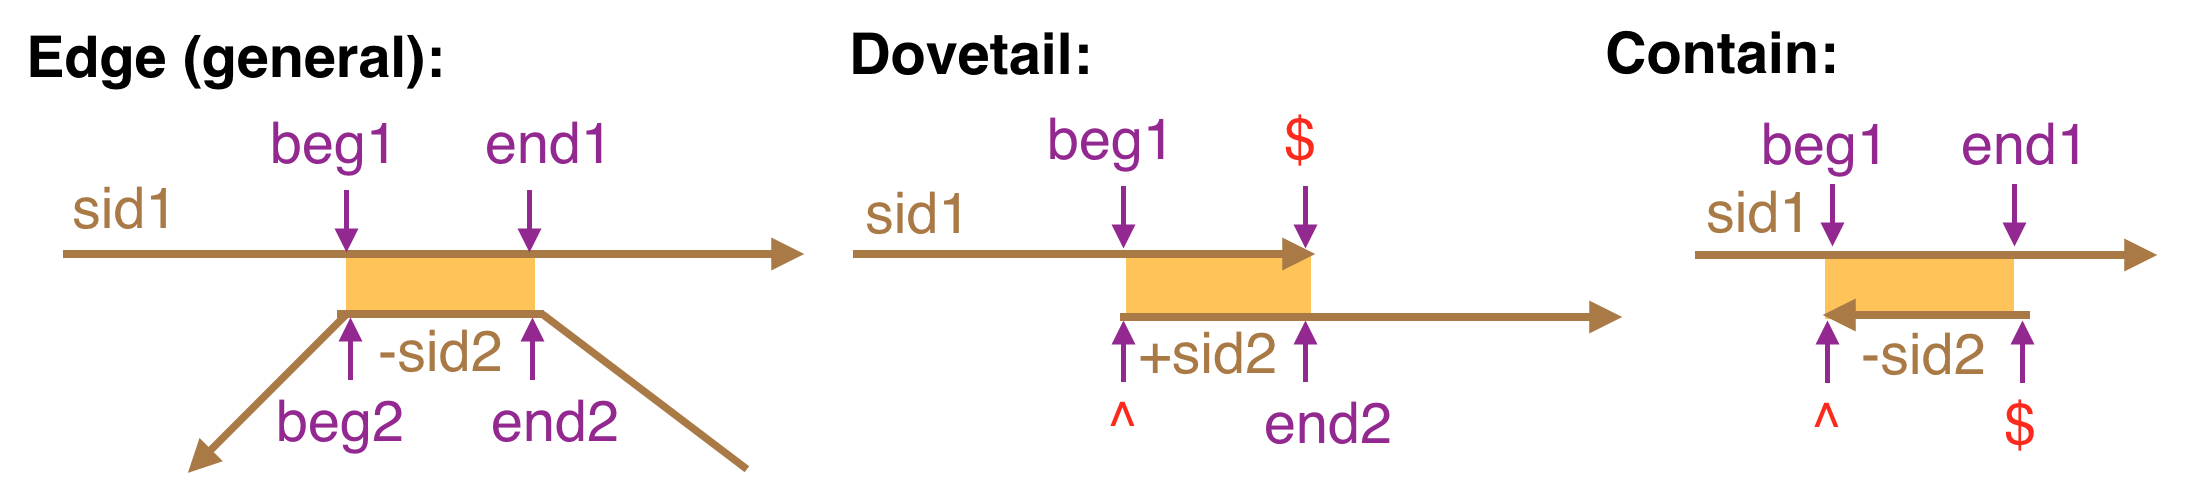
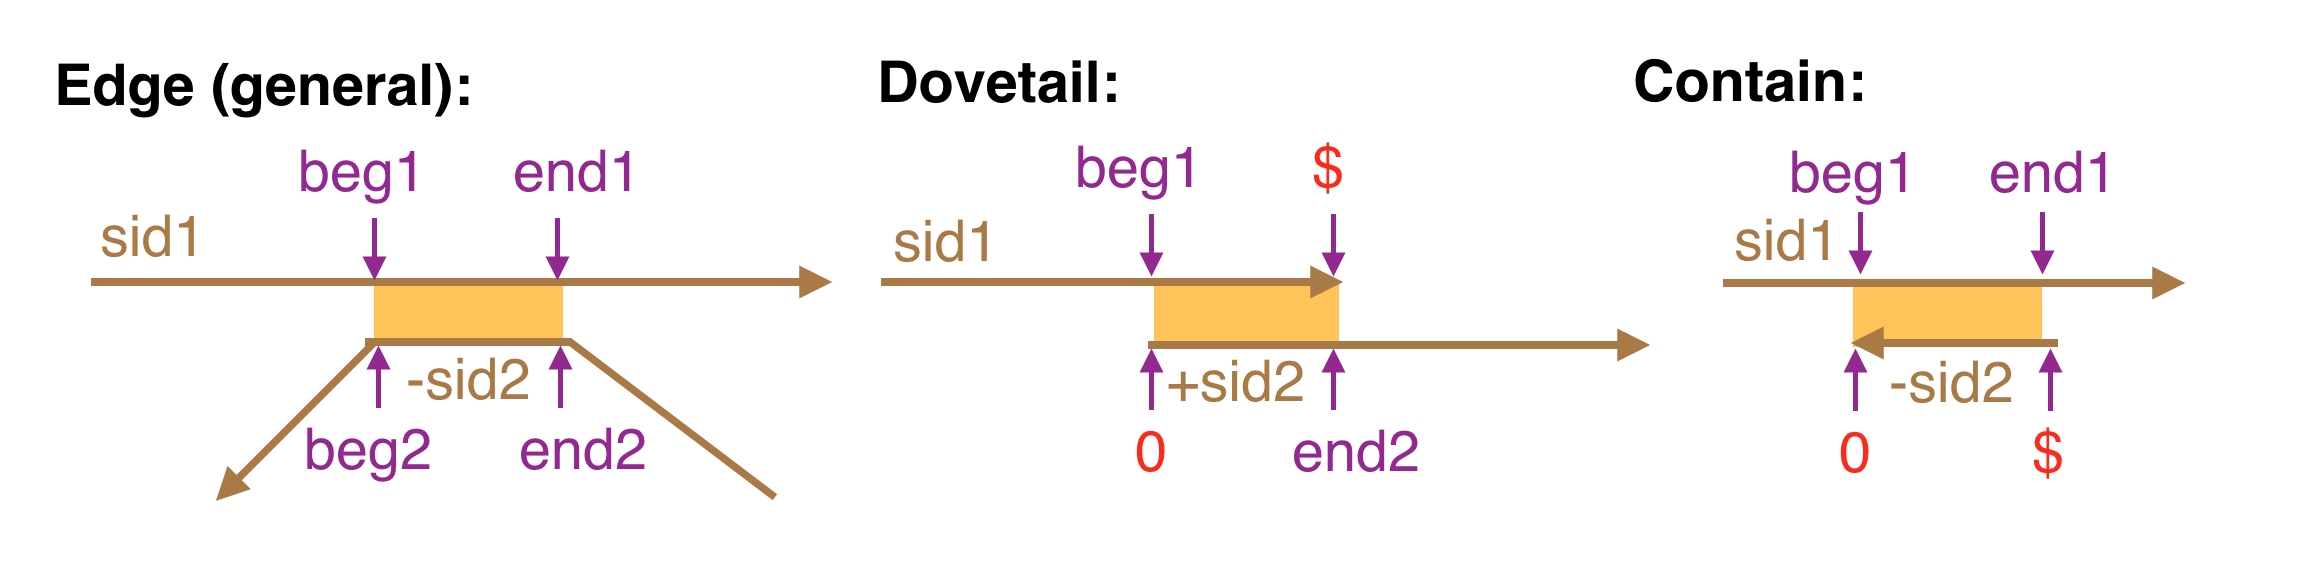
alignments & clip fixed field, new position syntax/semantics

diff --git a/DAS-spec.md b/DAS-spec.md
@@ -193,10 +193,10 @@ in DAS, with a relatively straightforward transformation of each input line.
 
 On the otherhand, a GFA parser, even one that accepts optional SAM-tags at the end of a
 defined line type, and which ignores line types it doesn't define, will not accept a
-DAS specification because of changes in the defined fields of the the S- and P-lines.
+DAS specification because of changes in the defined fields of the S- and P-lines.
 Acheving this also makes no sense because DAS extends what was encoded in the L- and
-C-lines of GFA with a single E-line generalization.  So any effective DAS reader must
-read E-lines, and therefore must be an extension of a GFA parser.
+C-lines of GFA with a single E-line generalization.  So any useful DAS reader must
+read E-lines, and therefore must be an extension of a GFA parser anyway.
 
 The syntactic conventions, however, are identical to GFA.  Each description line begins
 with a single letter and has a fixed set of fields that are tab-delimited.  The changes
@@ -204,7 +204,7 @@ are as follows:
 
 1. There is an integer length field in S-lines.
 
-2. The L- and C-lines have been replaced by a consolidate E-line type.
+2. The L- and C-lines have been replaced by a consolidated E-line.
 
 3. The P-line has been enhanced to encode both subgraphs and paths, and can take
    edge id's that obviate the need for describing the alignment between segments.
@@ -214,4 +214,4 @@ are as follows:
 5. Alignments can be trace length sequences as well as CIGAR strings.
 
 6. Positions have been extended to include a notation for 0-based position with respect
-   to the *end* of a segment (the default being with respect to the beginning).
+   to *either* end of a segment (the default being with respect to the beginning).
